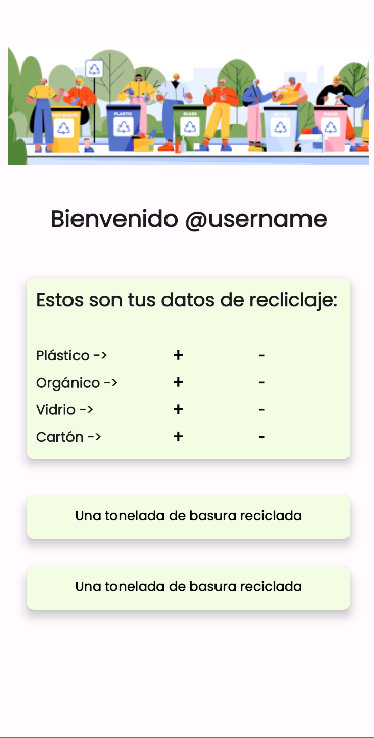
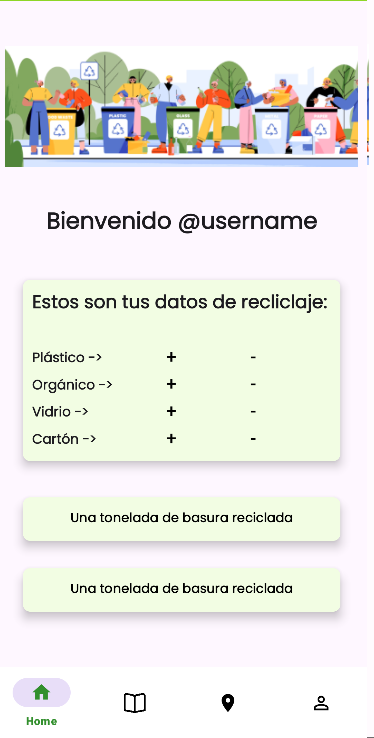
Readme agregado, mapa y menu

diff --git a/ReadME.md b/ReadME.md
@@ -17,3 +17,9 @@ y da paso al login o al register --**
 
 ![Main](app/img/Main.png)
 
+**-- El mapa donde enseña los puntos limpios --**
+
+![Mapa](app/img/Mapa.png)
+
+
+
